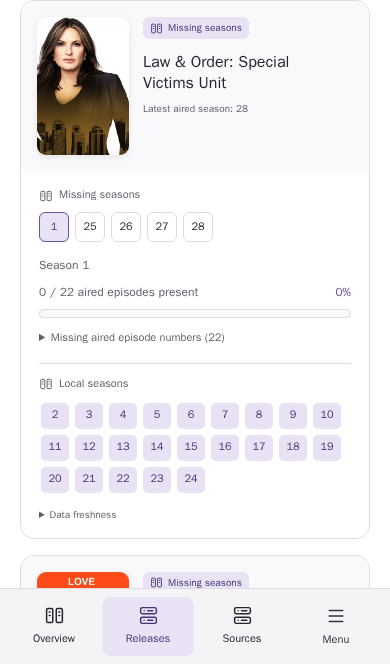
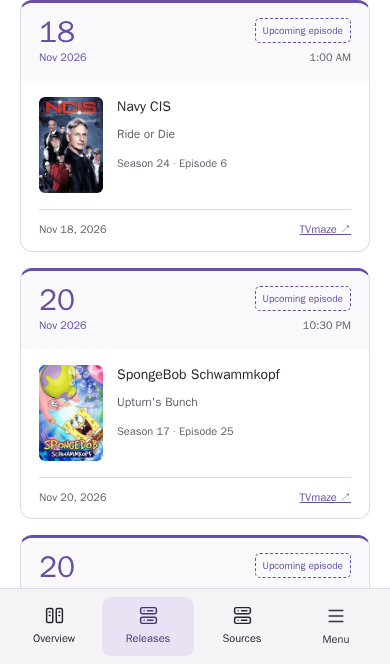
docs: document local discovery controls and refresh gallery screenshots

diff --git a/web/tests/foundation.spec.ts b/web/tests/foundation.spec.ts
@@ -30,24 +30,17 @@ test('foundation is usable, bilingual and persists preferences', async ({
   if (process.env.UPDATE_SCREENSHOTS === '1') {
     if (testInfo.project.name === 'mobile') {
       await page.goto('/releases');
+      const upcoming = page.getByRole('region', {
+        name: 'Upcoming episodes',
+        exact: true,
+      });
       await expect(
-        page.getByRole('heading', {
-          name: 'Seasons missing from your library',
+        upcoming.getByRole('heading', {
+          name: 'Upcoming episodes',
           exact: true,
         }),
       ).toBeVisible();
-      const gaps = page.getByRole('region', {
-        name: 'Seasons missing from your library',
-        exact: true,
-      });
-      await expect(gaps.getByRole('status')).toHaveCount(0);
-      const multiSeason = gaps
-        .locator('.gap-list > li')
-        .filter({ has: page.locator('.season-selector button:nth-child(2)') })
-        .first();
-      const firstCard = (await multiSeason.count())
-        ? multiSeason
-        : gaps.locator('.gap-list > li').first();
+      const firstCard = upcoming.locator('.upcoming-card').first();
       if (await firstCard.count()) {
         await firstCard.evaluate((el) => el.scrollIntoView({ block: 'start' }));
         await firstCard.evaluate(async (el) => {
@@ -58,7 +51,22 @@ test('foundation is usable, bilingual and persists preferences', async ({
               img.addEventListener('error', () => resolve(), { once: true });
             });
         });
-      } else await gaps.evaluate((el) => el.scrollIntoView({ block: 'start' }));
+      } else
+        await upcoming.evaluate((el) => el.scrollIntoView({ block: 'start' }));
+    } else {
+      await page.setViewportSize({ width: 1800, height: 1000 });
+      const grid = page.locator('.title-grid');
+      if (await grid.count()) {
+        await grid.evaluate((el) => el.scrollIntoView({ block: 'start' }));
+        await page.waitForFunction(() =>
+          [...document.querySelectorAll<HTMLImageElement>('.title-art img')]
+            .filter((img) => {
+              const rect = img.getBoundingClientRect();
+              return rect.top < innerHeight && rect.bottom > 0;
+            })
+            .every((img) => img.complete),
+        );
+      }
     }
     await page.screenshot({
       path: `../docs/screenshots/${testInfo.project.name}.png`,

diff --git a/docs/library.md b/docs/library.md
@@ -7,6 +7,34 @@ and rejects paths outside configured roots. It issues no remote shell commands o
 write operations. A server account restricted to reading those roots is recommended;
 client read-only behavior does not change the permissions of your SSH account.
 
+## Browsing, search and display width
+
+Overview and Releases use the same fluid card sizing: columns follow the available
+window width rather than a fixed count. **Limit width** in the top bar caps gallery
+content at 1600px, roughly four cards on an ultrawide display, while narrower
+screens keep adapting. The setting is shared between those two pages and saved
+only in this browser's localStorage (`lookout.limitWidth`). It survives reloads
+and browser sessions until cleared; other devices/browsers are independent. If
+storage is blocked, the toggle still works for the current page session.
+
+Overview search suggests up to eight locally catalogued titles after two characters
+and a short debounce. Suggestions include films, series and anime and respect the
+active category. Only titles with at least one observed/stable file are eligible;
+titles with exclusively missing or unconfirmed files are excluded. The dropdown
+uses text from Lookout's database only: typing does not contact metadata providers
+or fetch suggestion artwork. Use arrows and Enter to open a title, Escape to dismiss,
+or select with the pointer. The ordinary Search button remains available if the
+suggestion request fails. Obsolete requests are cancelled/ignored.
+
+### Where artwork lives
+
+The browser loads every card image through Lookout's own artwork endpoint. On a
+cache miss, Lookout fetches the image server-side from the configured Jellyfin/Plex
+server or permitted TVmaze artwork host, validates and bounds the response, and
+stores the bytes in PostgreSQL (`metadata_images`). Cached artwork needs no upstream
+request. Images are loaded on demand rather than predownloaded for the whole library;
+uncached images still need the upstream source. Connection tokens stay server-side.
+
 ## Source setup
 
 Complete [database deployment](deployment.md) first. Create a private runtime
@@ -142,6 +170,15 @@ ordering always requires review because local/TVDB and TVmaze season structures
 can differ. Those titles do not produce definitive missing/partial claims.
 Refresh schedules or rescan the source as appropriate; changing data is reflected
 by the comparison without generating historical Telegram alerts.
+
+### Upcoming episodes and season premieres
+
+Upcoming releases use calendar-style cards with a scheduled day/date, optional
+reported time, small series poster and provider attribution. Regular-season episode 1
+is labeled **Season premiere**; other episodes are labeled **Upcoming episode**.
+They are visually separate from missing-season coverage cards and make no local-copy
+claim. Date-only entries show the provider date with **Date only**, never an invented
+air time. Unknown dates remain excluded from the scheduled list.
 
 The first successful fetch establishes a silent baseline: old episodes generate no
 alerts. A later reported air time creates a deduplicated episode event; episode 1

diff --git a/docs/library-verification.md b/docs/library-verification.md
@@ -147,3 +147,39 @@ The deployed LAN service passed all 24 browser cases, and the refreshed phone
 screenshot was visually inspected. Read-only series/anime scans were refreshed
 when the freshness guard correctly classified the old inventory as needing review;
 normal comparison cards returned afterward. No NAS files were changed.
+
+## Discovery and gallery controls — 2026-11-15
+
+Upcoming episodes now use date-led calendar cards with series artwork and an
+explicit Upcoming episode or Season premiere badge. Date-only fixtures show the
+reported date without an invented time; regular-season episode 1 is the premiere
+case. Missing-season coverage remains a separate presentation.
+
+Overview now uses the same fluid 340px-minimum grid as Releases. Limit width caps
+both gallery pages at 1600px, saved only in this browser's localStorage. Live
+ultrawide verification measured 6 columns in full-width mode and 4 when limited, and
+the setting survived reload/navigation without affecting a fresh browser context.
+Phone checks found no horizontal overflow.
+
+Type-ahead uses the bounded local suggestion endpoint with observed/stable-file
+evidence and active category filtering. User explicitly chose all local titles,
+including series/anime. Store/API tests exclude missing/unconfirmed-only titles;
+browser tests cover minimum length/debounce, keyboard and pointer selection,
+Escape, obsolete responses and manual search after failure. Eight real Harry
+Potter suggestions appeared from the local catalogue. Typing has no metadata or
+artwork lookup path.
+
+The full check passed with 34 desktop/mobile tests, zero type errors/warnings,
+real isolated PostgreSQL cases, lifecycle checks, audits and workflow lint. Fresh
+source review found one artwork-state reuse issue; its controlled refresh regression
+was observed failing and then passed after title-identity keying. All 34 browser cases
+also passed against the deployed LAN image. Screenshots of actual upcoming cards,
+type-ahead, overview and ultrawide limiting were visually inspected. Nine live
+upcoming cards rendered, including a season premiere.
+
+The browser issued zero external image requests during live QA: card images used
+Lookout's local endpoint. On-demand upstream fetching and PostgreSQL byte caching
+were verified in the owning source; this is not whole-library predownload. The
+running healthy image digest matched the tested build. README images were refreshed.
+No new external dependencies, migrations, source credentials or Telegram behavior
+were introduced.

diff --git a/docs/api.md b/docs/api.md
@@ -12,6 +12,7 @@ work returns 202; a busy/disabled worker returns 409. Errors have the form
 | `/readyz` | GET, HEAD | Database readiness; 503 when unavailable. |
 | `/api/v1/status` | GET, HEAD | Service identity; legacy stage identifier `foundation`. |
 | `/api/v1/titles` | GET, HEAD | `{items,total,limit,offset}`; `q`, `category`, `limit` (1–100, default48), `offset`. |
+| `/api/v1/titles/suggestions` | GET, HEAD | Local-only `{items:[{id,name,category,year?}]}`; `q` (2–300 characters), optional `category`; at most 8 observed/stable titles. |
 | `/api/v1/titles/{id}` | GET, HEAD | Title metadata and observed files. |
 | `/api/v1/sources` | GET, HEAD | Configured sources and scan health. |
 | `/api/v1/sources/{id}/scan` | POST | Queue read-only scan; `{}`. |
@@ -62,3 +63,11 @@ because episode numbers are season-specific. `total` counts series cards, while
 `missing`/`partial` still count seasons and `review` still counts titles. Review
 items remain one per title. Omitting `group_by` preserves flat per-season output;
 unsupported values return 400. Titles with the same display name retain separate IDs.
+
+Suggestion queries use only the local catalogue, never a metadata-provider search.
+Shorter queries return an empty list. Category/query validation matches title
+browsing; suggestions force limit 8 and offset 0 regardless of requested pagination.
+Only titles with at least one observed/stable file are eligible, including numbered
+ZIP inventory members. Missing/unconfirmed-only records remain visible in ordinary
+library browsing, but are excluded from suggestions. Responses contain no artwork
+URLs, provider credentials or remote-search data.

diff --git a/docs/superpowers/plans/2026-11-15-discovery-layout.md b/docs/superpowers/plans/2026-11-15-discovery-layout.md
@@ -11,7 +11,7 @@
 
 No external search or credentials in client. Exclude titles with only missing/unconfirmed file evidence. Avoid stale-result races and keyboard traps. Upcoming dates do not imply a local copy or a released season; date-only never invents a time. Width preference belongs solely to this browser, survives navigation/reload, and does not break existing resize behavior. Artwork provenance remains series-level and proxied/cached.
 
-- [ ] RED→GREEN store/API regressions for observed local suggestions, query validation and bounded output; commit.
-- [ ] RED→GREEN browser regressions for date-led upcoming/premiere cards, keyboard/debounced local suggestions and failure/stale handling, shared width/reload/browser isolation and ultrawide resize.
-- [ ] Implement focused upcoming/search components and shared browser width setting; full checks and final review; fix meaningful issues.
-- [ ] Deploy tested image, inspect actual desktop/phone/ultrawide screenshots, refresh README/docs and commit locally.
+- [x] RED→GREEN store/API regressions for observed local suggestions, query validation and bounded output; commit.
+- [x] RED→GREEN browser regressions for date-led upcoming/premiere cards, keyboard/debounced local suggestions and failure/stale handling, shared width/reload/browser isolation and ultrawide resize.
+- [x] Implement focused upcoming/search components and shared browser width setting; full checks and final review; fix meaningful issues.
+- [x] Deploy tested image, inspect actual desktop/phone/ultrawide screenshots, refresh README/docs and commit locally.

diff --git a/README.md b/README.md
@@ -10,7 +10,10 @@ videos appear as archive members without extraction.
 Follow series/anime for upcoming episodes and provider-reported season premieres.
 Poster cards show missing and partial aired seasons, episode coverage and local
 season chips. Multiple seasons share one series card, and the grid fits the
-available window width. Uncertain numbering stays separated for review. The first successful
+available window width. A browser-saved width limit keeps ultrawide galleries
+readable. Search suggests local films, series and anime as you type; upcoming
+releases have their own calendar-style cards. Uncertain numbering stays separated
+for review. The first successful
 schedule fetch establishes a silent baseline. Optional Telegram alerts apply to
 future releases; verifying the bot/chat sends no test message.
 Lookout does not download, play, move, rename or delete media.
@@ -39,7 +42,7 @@ server. Language and theme are saved separately on each device.
 
 | Desktop | Phone |
 | --- | --- |
-| ![Lookout desktop library with metadata and cover artwork](docs/screenshots/desktop.png) | ![Lookout mobile series card with grouped seasons and episode coverage](docs/screenshots/mobile.png) |
+| ![Lookout desktop library with metadata and cover artwork](docs/screenshots/desktop.png) | ![Lookout mobile upcoming releases with calendar dates and artwork](docs/screenshots/mobile.png) |
 
 Configure [read-only library and integrations](docs/library.md). See [deployment](docs/deployment.md), [API](docs/api.md), and
 [development and checks](docs/development.md) for more details.
